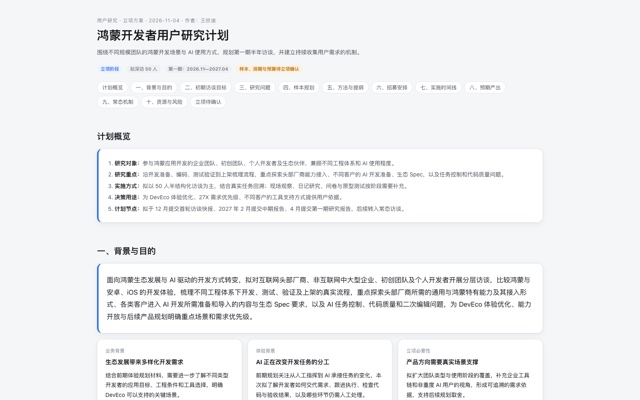
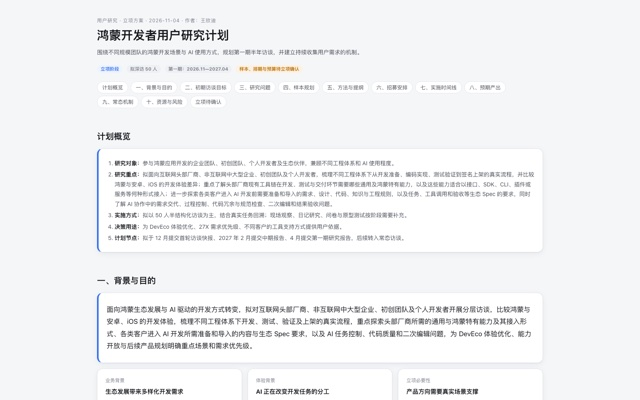
docs: expand research focus and clarify meeting inputs

Changed region(s): [[0.125, 0.66, 0.8438, 1.0], [0.125, 0.42, 0.8438, 0.66], [0.625, 0.87, 0.8438, 1.0]]

diff --git a/analysis/user-research-plan/REPORT-鸿蒙开发者用户研究计划.html b/analysis/user-research-plan/REPORT-鸿蒙开发者用户研究计划.html
@@ -95,7 +95,7 @@ b{font-weight:600;color:var(--ink)}
   <h2 id="summary">计划概览</h2>
   <div class="card summary"><ol>
     <li><b>研究对象：</b>参与鸿蒙应用开发的企业团队、初创团队、个人开发者及生态伙伴，兼顾不同工程体系和 AI 使用程度。</li>
-    <li><b>研究重点：</b>沿开发准备、编码、测试验证到上架梳理流程，重点探索头部厂商能力接入、不同客户的 AI 开发准备、生态 Spec，以及任务控制和代码质量问题。</li>
+    <li><b>研究重点：</b>拟面向互联网头部厂商、非互联网中大型企业、初创团队及个人开发者，梳理不同工程体系下从开发准备、编码实现、测试验证到签名上架的真实流程，并比较鸿蒙与安卓、iOS 的开发体验差异；重点了解头部厂商现有工具链在开发、测试与交付环节需要哪些通用及鸿蒙特有能力，以及这些能力适合以接口、SDK、CLI、插件或服务等何种形式接入；进一步探索各类客户进入 AI 开发前需要准备和导入的需求、设计、代码、知识与工程规则，以及任务、工具调用和验收等生态 Spec 的要求，同时了解 AI 协作中的需求交代、过程控制、代码冗余与规范检查、二次编辑和结果验收问题。</li>
     <li><b>实施方式：</b>拟以 50 人半结构化访谈为主，结合真实任务回溯；现场观察、日记研究、问卷与原型测试按阶段需要补充。</li>
     <li><b>决策用途：</b>为 DevEco 体验优化、27X 需求优先级、不同客户的工具支持方式提供用户依据。</li>
     <li><b>计划节点：</b>拟于 12 月提交首轮访谈快报、2027 年 2 月提交中期报告、4 月提交第一期研究报告，后续转入常态访谈。</li>
@@ -111,15 +111,15 @@ b{font-weight:600;color:var(--ink)}
     <div class="card"><div class="k">立项必要性</div><h4>产品方向需要真实场景支撑</h4><p>拟扩大团队类型与使用阶段的覆盖，补充企业工具链和非重度 AI 用户的视角，形成可追溯的需求依据，支持后续规划取舍。</p></div>
   </div>
   <p class="note">背景参考：DevEco 体验规划与创新 Keynote 配套主线及逐页文稿、2026-10-29 规划探讨与用研交流记录，以及补充的领导建议。既有规划中的「托付得放心 / 验得了 / 接得进」作为后续分析参照；访谈先从用户自身任务与经历展开。</p>
-  <h3>领导建议与本次研究的对应关系</h3>
-  <div class="tw"><table><thead><tr><th>建议来源与关注点</th><th>计划展开的研究任务</th><th>对应问题 / 拟形成的材料</th></tr></thead><tbody>
+  <h3>上次汇报会议对用户研究计划的输入</h3>
+  <div class="tw"><table><thead><tr><th>会议输入与补充关注点</th><th>本次计划如何承接</th><th>对应研究问题与预期产出</th></tr></thead><tbody>
   <tr><th>10-29 · 平台对比</th><td>补充安卓、iOS 经验，识别共性与平台相关的体验差异。</td><td>RQ5 · 跨平台任务与体验对照。</td></tr>
   <tr><th>10-29 · 分客户看旅程</th><td>分别梳理互联网头部、非互联网中大型企业与普通开发者的流程，同时比较工程成熟度。</td><td>RQ1、RQ6 · 分层旅程与接入需求。</td></tr>
   <tr><th>10-29 · 代码质量与二次编辑</th><td>了解代码冗余、规则检查、审查和持续迭代中的返工是否突出、在什么条件下出现。</td><td>RQ4 · 代码验收与维护场景。</td></tr>
   <tr><th>补充建议 · 头部厂商工具链</th><td>结合开发、测试、鸿蒙特有场景及交付流程，研究需要平台提供哪些能力、以什么形式接入。</td><td>RQ9 · 流程—能力—候选形式清单。</td></tr>
   <tr><th>补充建议 · AI 开发准备与生态 Spec</th><td>研究不同客户需要自行准备、导入或由平台提供什么，以及 AI 生态协作中的规范要求。</td><td>RQ10、RQ11 · 分客户准备清单与 Spec 需求清单。</td></tr>
   <tr><th>10-29 · 常态化用户交流</th><td>与用研团队确认立项及滚动招募，结合重点客户面对面交流，建立持续输入。</td><td>RQ8 · 复访样本库与月度研究机制。</td></tr>
-  </tbody></table></div><p class="note">以上作为研究议题来源；能力形式、客户需求与规范范围均拟通过访谈进一步明确。</p>
+  </tbody></table></div><p class="note">根据 2026-10-29 汇报会议、用研交流记录及会后补充整理，以上输入用于确定本次研究范围与重点；能力形式、客户需求与规范范围拟通过访谈进一步明确。</p>
   </section>
 
   <section aria-labelledby="goals">

diff --git a/site/catalog.js b/site/catalog.js
@@ -422,7 +422,7 @@ window.DEVECO_CATALOG = {
       items: [
         {
           title: '鸿蒙开发者用户研究计划：立项方案', subtitle: 'HarmonyOS Developer Research Plan · Nov 2026 – Apr 2027',
-          desc: '面向鸿蒙生态发展与 AI 驱动的开发方式转变，拟对互联网头部厂商、非互联网中大型企业、初创团队及个人开发者开展分层访谈，比较鸿蒙与安卓、iOS 的开发体验，梳理不同工程体系下开发、测试、验证及上架的真实流程，重点探索头部厂商所需的通用与鸿蒙特有能力及其接入形式、各类客户进入 AI 开发所需准备和导入的内容与生态 Spec 要求，以及 AI 任务控制、代码质量和二次编辑问题，为 DevEco 体验优化、能力开放与后续产品规划明确重点场景和需求优先级。包含领导建议对应表、三个研究专题、访谈提纲、50 人分层样本、招募、半年排期及预期产出。',
+          desc: '面向鸿蒙生态发展与 AI 驱动的开发方式转变，拟对互联网头部厂商、非互联网中大型企业、初创团队及个人开发者开展分层访谈，比较鸿蒙与安卓、iOS 的开发体验，梳理不同工程体系下开发、测试、验证及上架的真实流程，重点探索头部厂商所需的通用与鸿蒙特有能力及其接入形式、各类客户进入 AI 开发所需准备和导入的内容与生态 Spec 要求，以及 AI 任务控制、代码质量和二次编辑问题，为 DevEco 体验优化、能力开放与后续产品规划明确重点场景和需求优先级。包含会议输入对应表、三个研究专题、访谈提纲、50 人分层样本、招募、半年排期及预期产出。',
           view: 'doc', date: '2026-11-04', href: 'analysis/user-research-plan/REPORT-鸿蒙开发者用户研究计划.html',
           links: [{ label: '研究问题', href: 'analysis/user-research-plan/REPORT-鸿蒙开发者用户研究计划.html#diff' }, { label: '预期产出', href: 'analysis/user-research-plan/REPORT-鸿蒙开发者用户研究计划.html#deliver' }, { label: '分层样本', href: 'analysis/user-research-plan/REPORT-鸿蒙开发者用户研究计划.html#sample' }, { label: '时间线', href: 'analysis/user-research-plan/REPORT-鸿蒙开发者用户研究计划.html#timeline' }],
           tags: ['用户研究', '访谈计划', '立项方案', '大厂样本', '招募', '时间线'],
